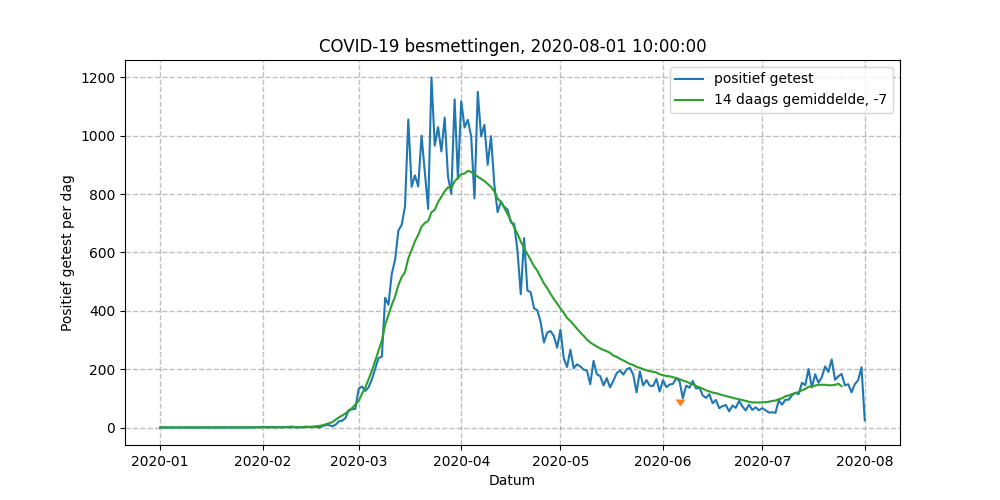
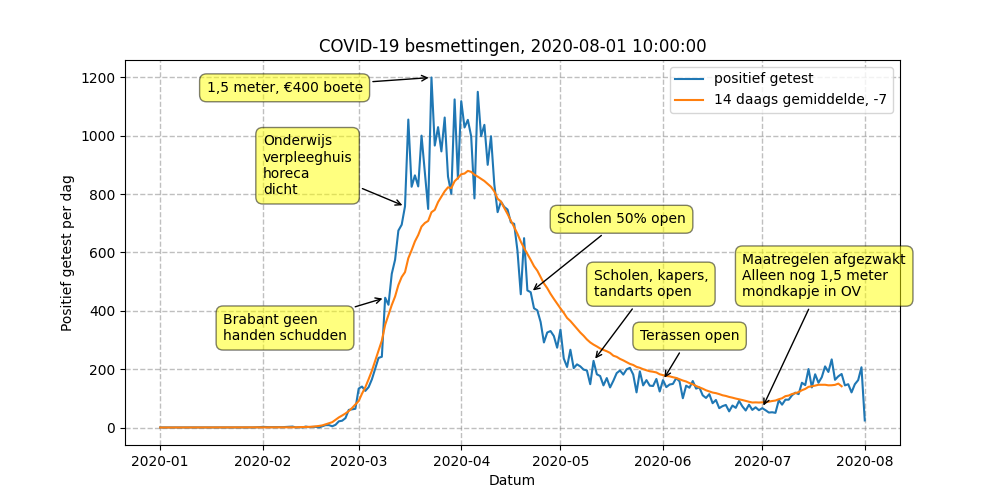
Ran getDailyExcelData

diff --git a/scripts/createGraph.py b/scripts/createGraph.py
@@ -32,13 +32,30 @@ for datum in metenisweten:
     a.append(avg)
 
 
+def anotate(plt, metenisweten, datum, tekst, x, y):
+    plt.annotate(
+        tekst, 
+        xy=(parser.parse(datum), metenisweten[datum]['positief']),
+        xytext=(parser.parse(x), y),
+        bbox=dict(boxstyle='round,pad=0.5', fc='yellow', alpha=0.5),
+        arrowprops=dict(arrowstyle = '->', connectionstyle='arc3,rad=0')
+    )
+
+
+
 plt.figure(figsize=(10,5))
 plt.grid(which='both', axis='both', linestyle='--', color='gray', linewidth=1, alpha=0.5)
 
 # Plot cases per dag
 plt.plot(x,y,label='positief getest')
 
-plt.plot([parser.parse("2020-06-06")], 100, marker=11)
+anotate(plt, metenisweten, "2020-03-09", 'Brabant geen\nhanden schudden', "2020-01-20", 300)
+anotate(plt, metenisweten, "2020-03-15", 'Onderwijs\nverpleeghuis\nhoreca\ndicht', "2020-02-01", 800)
+anotate(plt, metenisweten, "2020-03-23", '1,5 meter, €400 boete', "2020-01-15", 1150)
+anotate(plt, metenisweten, "2020-04-22", 'Scholen 50% open', "2020-04-30", 700)
+anotate(plt, metenisweten, "2020-05-11", 'Scholen, kapers,\ntandarts open', "2020-05-11", 450)
+anotate(plt, metenisweten, "2020-06-01", 'Terassen open', "2020-05-25", 300)
+anotate(plt, metenisweten, "2020-07-01", 'Maatregelen afgezwakt\nAlleen nog 1,5 meter\nmondkapje in OV', "2020-06-25", 450)
 
 # Plot average per dag
 ax = a[int(avgsize/2):]
